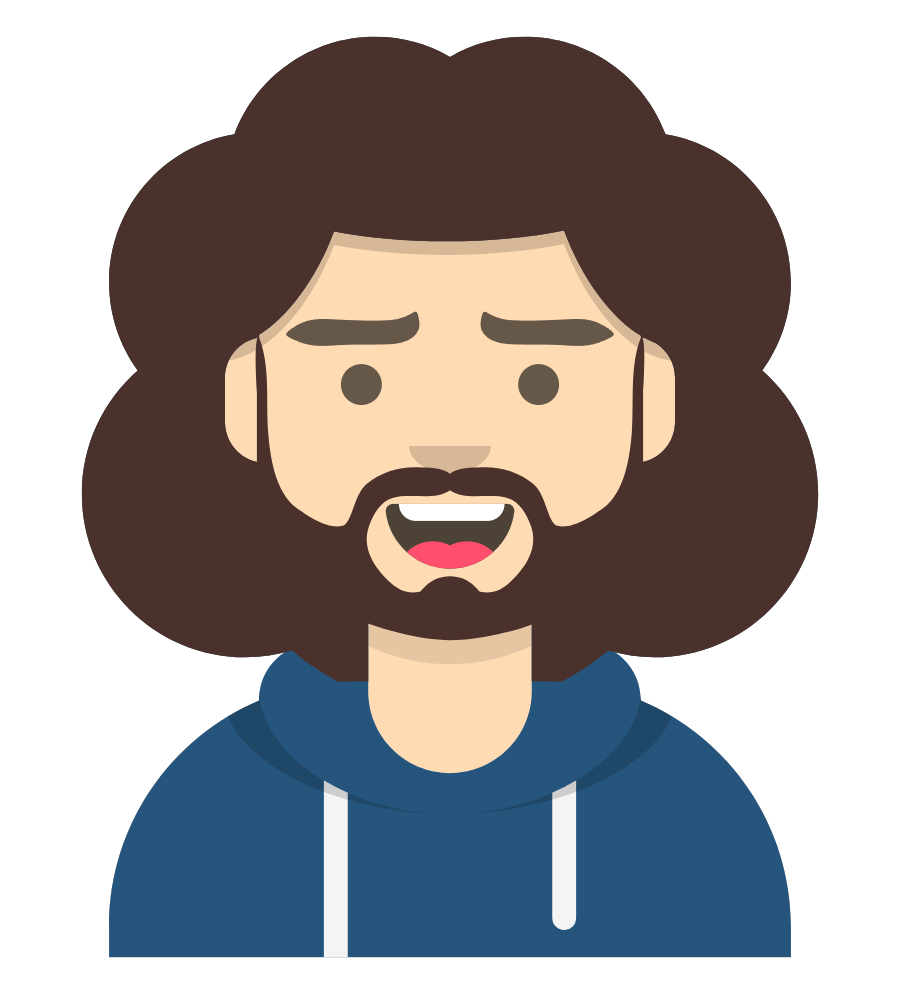
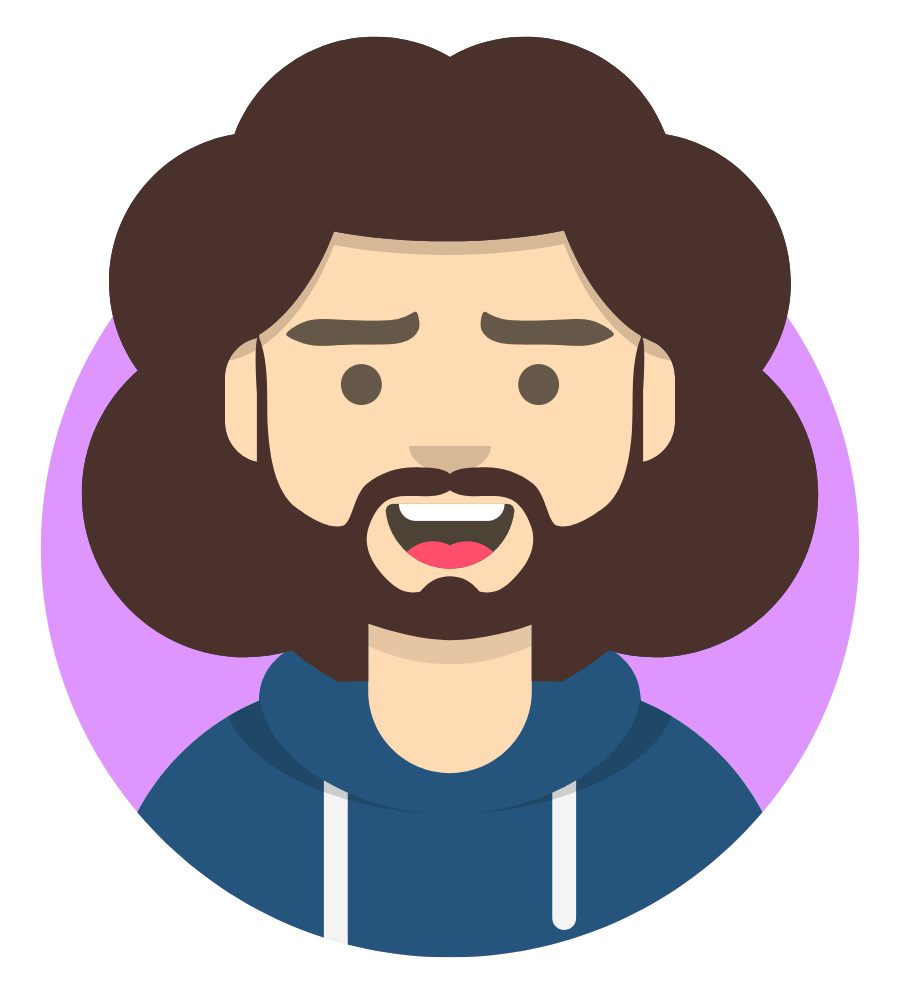
.

Changed region(s): [[0.0304, 0.31, 0.4565, 0.961], [0.5478, 0.31, 0.9435, 0.961]]

diff --git a/src/components/home/Home.jsx b/src/components/home/Home.jsx
@@ -11,6 +11,7 @@ import CV from "../../assets/Josias_Chevalier_Resume.pdf"
 
 const Home = () => {
   return <section className='home' id='home'>
+    <div className="home__wrapper">
     <div className="home__container container">
         <p className="home__subtitle text-cs">
             What's up, <span>My name Is</span>
@@ -19,7 +20,7 @@ const Home = () => {
         <h1 className="home__title text-cs"><span>Josias</span> Chevalier</h1>
 
         <p className="home__job">
-            <span className="text-cs">I have experience with</span> <b>Full Stack Development</b>
+            <span className="text-cs">I have experience with</span> <b>Fullstack Software Development</b>
         </p>
 
         <div className="home__img-wrapper">
@@ -33,7 +34,7 @@ const Home = () => {
         </div>
 
         <p className="home__text">
-            From Miami, Florida. I have a Bachelor of Arts in Computer Science from Florida International University.
+            Based in Miami, Florida. I have a Bachelor of Arts in Computer Science from Florida International University.
         </p>
 
         <div className="home__socials">
@@ -53,6 +54,7 @@ const Home = () => {
 
             <a href="" className="hero__link text-cs">My Skills</a>
         </div>
+    </div>
     </div>
   </section>;
     

diff --git a/src/App.css b/src/App.css
@@ -121,6 +121,11 @@ img {
     padding-inline: 12px;
 }
 
+.grid {
+    display: grid;
+    gap: 24px
+}
+
 .text-cs {
     text-transform: uppercase;
     letter-spacing: 0.05em;
@@ -134,6 +139,7 @@ img {
     display: grid;
     place-items: center;
     position: relative;
+    z-index: 1;
 }
 
 .btn {
@@ -165,4 +171,32 @@ img {
     position: absolute;
     filter: invert(1);
     opacity: 0.6;
+}
+
+.section {
+    padding-bottom: 220px;
+}
+
+.section__title, .section__subtitle {
+    text-align: center;
+}
+
+.section__title {
+    font-size: var(--h1-font-size);
+}
+
+.section__subtitle {
+    color: var(--primary-color);
+    font-size: var(--smaller-font-size);
+    text-transform: uppercase;
+    font-weight: 700;
+    margin-bottom: 60px;
+}
+
+.section__subtitle span {
+    font-family: var(--secondary-font);
+    color: var(--title-color);
+    font-size: var(--h3-font-size);
+    text-transform: capitalize;
+    margin-left: 10px;
 }

diff --git a/src/components/home/home.css b/src/components/home/home.css
@@ -1,9 +1,12 @@
 .home {
     background-image: var(--first-gradient);
+    padding-bottom: 180px;
+}
+
+.home__wrapper{
     display: grid;
     align-items: center;
     min-height: 100vh;
-
 }
 
 .home__container {
@@ -85,7 +88,6 @@
 }
 
 .home__banner {
-    background-color: var(--primary-color);
     padding-bottom: 100%;
     border-radius: 50%;
     position: relative;
@@ -119,5 +121,5 @@
 
 .shape__3 {
     bottom: 0;
-    right: 0;
+    right: 10%;
 }

diff --git a/src/components/portfolio/Portfolio.jsx b/src/components/portfolio/Portfolio.jsx
@@ -1,0 +1,12 @@
+import React from 'react'
+
+const Portfolio = () => {
+  return (
+    <section className='portfolio section' id='work'>
+        <h2 className='section__title text-cs'>Portfolio</h2>
+        <p className='section__subtitle'>My <span>Projects</span></p>
+    </section>
+  )
+}
+
+export default Portfolio

diff --git a/src/App.jsx b/src/App.jsx
@@ -1,6 +1,7 @@
 import React from 'react'
 import './App.css'
 import Home from './components/home/Home'
+import Portfolio from './components/portfolio/Portfolio'
 
 function App() {
   
@@ -8,6 +9,7 @@ function App() {
   return (
    <main className="main">
     <Home/>
+    <Portfolio/>
    </main>
   )
 }

diff --git a/src/components/portfolio/Items.jsx b/src/components/portfolio/Items.jsx
@@ -1,0 +1,9 @@
+import React from 'react'
+
+const Items = () => {
+  return (
+    <div>Items</div>
+  )
+}
+
+export default Items

diff --git a/src/components/portfolio/List.jsx b/src/components/portfolio/List.jsx
@@ -1,0 +1,9 @@
+import React from 'react'
+
+const List = () => {
+  return (
+    <div>List</div>
+  )
+}
+
+export default List
